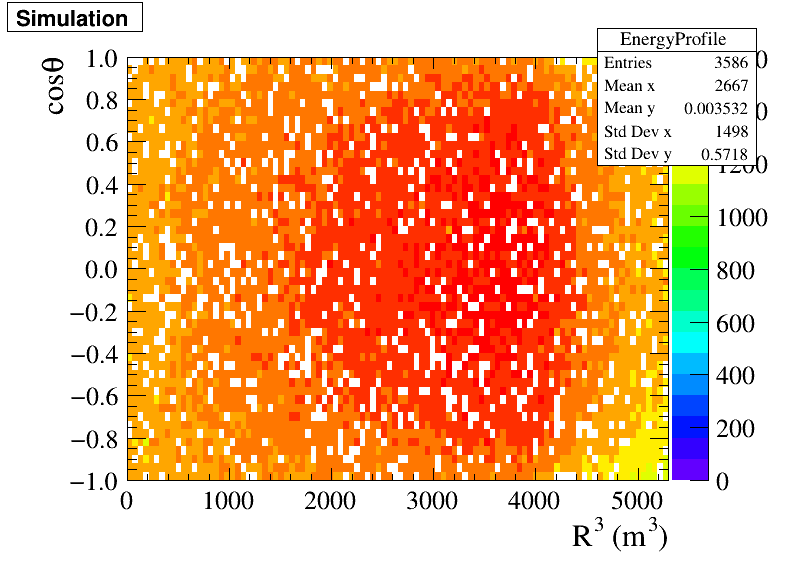
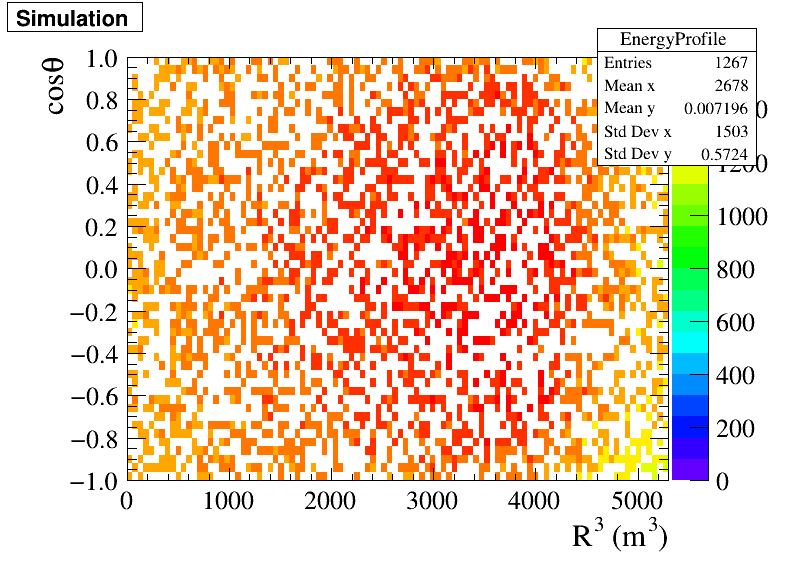
try iterator

diff --git a/Roottest/EnergyLeakage/GetPE2R3.C b/Roottest/EnergyLeakage/GetPE2R3.C
@@ -86,20 +86,21 @@ Bool_t GetPE2R3::Process(Long64_t entry)
    geninfoReader.SetLocalEntry(entry);
    nCaptureReader.SetLocalEntry(entry);
    TVector3 EvtPos(InitX[0] / 1e3, InitY[0] / 1e3, InitZ[0] / 1e3);
-   int PromptCount = *totalPE; //0;
-   // for (int j = 0; j < *totalPE; j++)
-   // { //avoid short time capture
-   //    if (hitTime[j] < PromptTimeCut && NeutronCaptureT[0] > PromptTimeCut)
-   //    {
-   //       PromptCount++;
-   //    }
-   //    if (ttt < 100)
-   //    {
-   //       printf("j:%d\thitTime:%f\n", j, hitTime[j]);
-   //       ttt++;
-   //    }
-   // }
-   float Photon2edep(PromptCount / (edep[0]+edep[1]));
+   int PromptCount = 0;
+   for (int j = 0; j < *totalPE; j++)
+   {
+      //avoid short time capture
+      // if (hitTime[j] < PromptTimeCut && NeutronCaptureT[0] > PromptTimeCut)
+      // {
+      PromptCount++;
+      // }
+      // if (ttt < 100)
+      // {
+      //    printf("j:%d\thitTime:%f\n", j, hitTime[j]);
+      //    ttt++;
+      // }
+   }
+   float Photon2edep(PromptCount / (edep[0] + edep[1]));
    // printf("edepra:%f\tra:%f\n", edep[0] / (edep[1] + edep[0]),
    //        (float)PromptCount / *totalPE);
    double R_cubic = pow(EvtPos.Mag2(), 1.5);
@@ -129,7 +130,11 @@ void GetPE2R3::Terminate()
    TCanvas c("myCanvasName", "The Canvas Title", 800, 600);
    // //calculate average
    h_ep->Divide(h_ep, h_ep_count);
-
+   for (int i = 1; i < TotalBin; i++)
+   {
+      if (h_ep_count->GetBinContent(i) > 0)
+         Printf("entry:%d\t%.1f\n", i, h_ep_count->GetBinContent(i));
+   }
    h_ep->SetXTitle("R^{3} (m^{3})");
    h_ep->SetYTitle("cos#theta");
    h_ep->Draw("colz");
